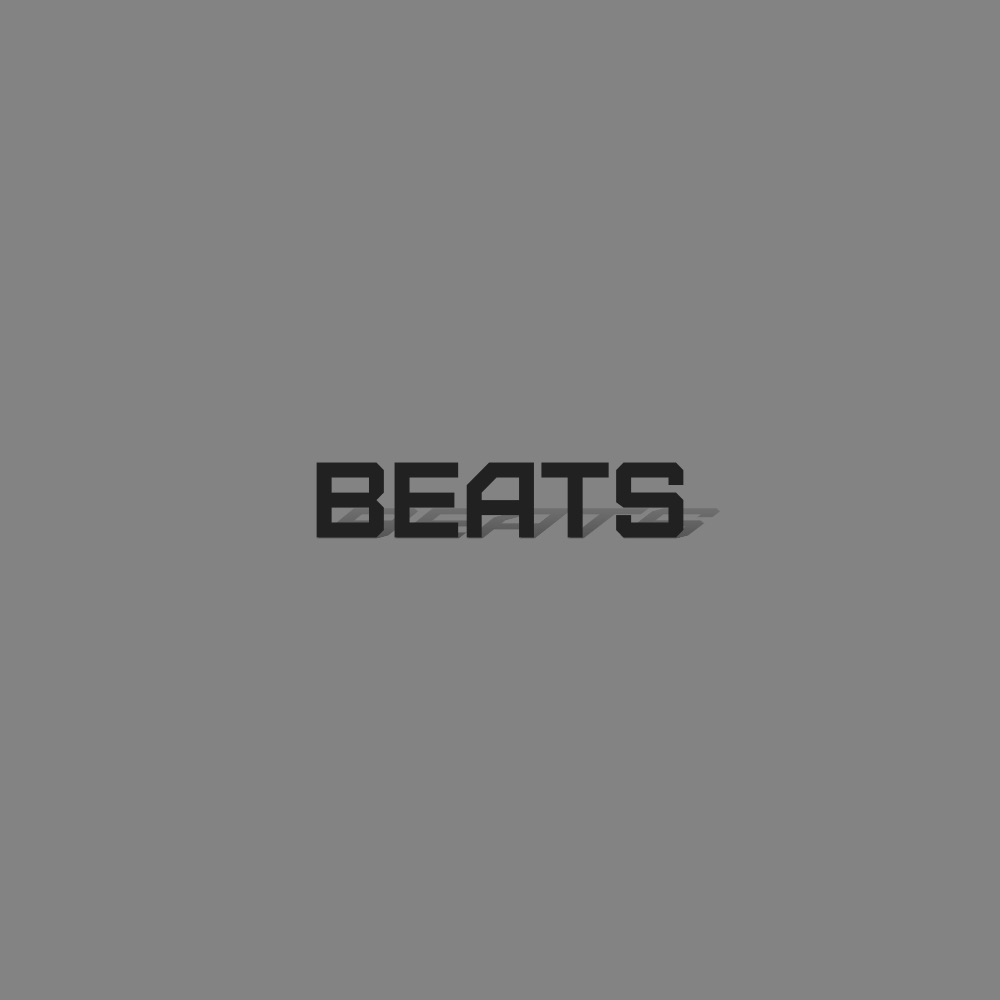
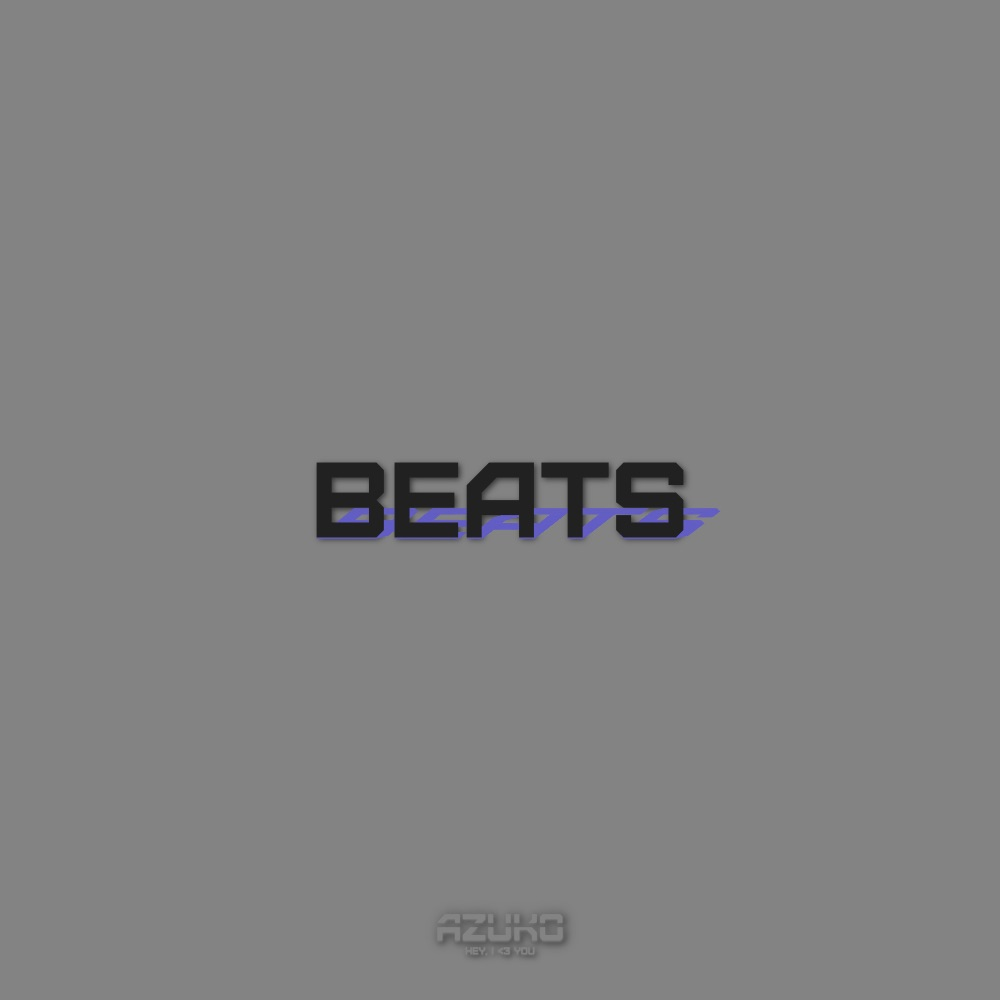
FastApi site v1.0.4 (upd visual)

Changed region(s): [[0.341, 0.465, 0.713, 0.558], [0.434, 0.899, 0.558, 0.961]]

diff --git a/templates/home_content/main_3.html b/templates/home_content/main_3.html
@@ -11,10 +11,11 @@
                         <i class="fa-solid fa-circle-info fa-xl"></i>
                     </div>
                     <hr>
+                    <img class="who_is_azuko_img" src="../../static/images/other/who_is_azuko.jpg" width="100%" alt="">
                     <p class="m-0 who_is_azuko_description">
-                        Hello! My name is Azuko and I'm an artist, producer, sound engineer, and I also wrote this
+                        "Hello! My name is Azuko and I'm an artist, producer, sound engineer, and I also wrote this
                         website.
-                        Here you can listen to my music, buy beats or other products. Cheers!
+                        Here you can listen to my music, buy beats or other products. Cheers!""
                     </p>
                 </div>
             </div>
@@ -31,7 +32,6 @@
                             <a href="/">
                                 <img loading="lazy" src="{{ products[i][0] }}" class="card-img-top img_product" alt="">
                             </a>
-                            <span class="sale">-25%</span>
                             {% else %}
                             <a href="/">
                                 <img loading="lazy" src="{{ products[i][0] }}" class="card-img-top img_product" alt="">
@@ -39,15 +39,14 @@
                             {% endif %}
                             <div class="product_info">
                                 {% if 'mixing_and_mastering' in products[i][0] %}
-                                <p class="m-0 product_name text-uppercase text-center">
-                                    <span class="text-decoration-line-through old_price">{{ products[i][1] }}
-                                        <i class="fa-solid fa-ruble-sign"></i>
-                                    </span>&nbsp;
-                                    <span>{{ products[i][2] }}</span>&nbsp;<i class="fa-solid fa-ruble-sign"></i>
+                                <p class="m-0 text-uppercase text-center d-flex align-items-center justify-content-center">
+                                    <span class="product_name">{{ products[i][2] }}&nbsp;<i class="fa-solid fa-ruble-sign"></i></span>
+                                    &nbsp;&nbsp;<span class="text-decoration-line-through old_price">{{ products[i][1] }}
+                                    <i class="fa-solid fa-ruble-sign"></i></span>
                                 </p>
                                 {% else %}
-                                <p class="m-0 product_name text-uppercase text-center">{{ products[i][1] }}&nbsp;<i
-                                        class="fa-solid fa-ruble-sign"></i></p>
+                                <p class="m-0 product_name text-uppercase text-center">{{ products[i][1] }}
+                                <i class="fa-solid fa-ruble-sign"></i></p>
                                 {% endif %}
                             </div>
                         </div>

diff --git a/templates/index.html b/templates/index.html
@@ -4,14 +4,15 @@
 <head>
     <meta charset="UTF-8">
     <meta name="viewport" content="width=device-width, initial-scale=1.0">
-    <title>Document</title>
+    <title>Azuko</title>
     <link rel="stylesheet" href="{{ url_for('static', path='/node_modules/bootstrap/dist/css/bootstrap.min.css') }}">
     <link rel="stylesheet" href="{{ url_for('static', path='/css/style.css') }}">
     <link rel="stylesheet" href="{{ url_for('static', path='/css/preloader.css') }}">
-    <link rel="stylesheet" href="{{ url_for('static', path='/css/rgb_deep.css') }}">
     <link rel="stylesheet" href="{{ url_for('static', path='/css/rgb.css') }}">
     <link rel="stylesheet" href="{{ url_for('static', path='/css/rgba.css') }}">
+    <link rel="stylesheet" href="{{ url_for('static', path='/css/rgb_deep.css') }}">
     <link rel="stylesheet" href="{{ url_for('static', path='/css/shadows.css') }}">
+    <link rel="shortcut icon" href="{{ url_for('static', path='favicon_azuko.ico') }}" type="image/x-icon">
 </head>
 
 <body>
@@ -20,7 +21,7 @@
     
     {% include 'header.html' %}
 
-    {% block home %}    
+    {% block content %}    
     {% endblock %}
 
     <script src="{{ url_for('static', path='/js/main.js') }}"></script>

diff --git a/static/css/style.css b/static/css/style.css
@@ -53,6 +53,7 @@ body {
     font-size: 20vh;
     color: var(--periwinkle-purple-rgb);
     opacity: .85;
+    font-weight: bold;
     letter-spacing: 4vw;
     text-shadow: 1px 1px 20px var(--periwinkle-purple-rgb);
 }
@@ -128,6 +129,12 @@ body {
     padding: 15px;
     border-radius: 10px;
     color: var(--periwinkle-purple-rgb);
+}
+
+.who_is_azuko .who_is_azuko_img {
+    margin-top: 20px;
+    border-radius: 10px;
+    filter: grayscale(.3);
 }
 
 .who_is_azuko_title {
@@ -207,17 +214,5 @@ body {
 .old_price {
     color: var(--dark-gray-rgb);
     text-shadow: var(--dark-gray-shadow);
+    font-size: .5em;
 }
-
-.sale {
-    position: fixed;
-    top: 26vh;
-    right: 6vw;
-    background-color: var(--periwinkle-purple-rgb);
-    color: rgb(37, 37, 37);
-    padding: 0 15px;
-    font-weight: bold;
-    font-size: 1.5em;
-    transform: rotate(45deg);
-}
-

diff --git a/static/css/preloader.css b/static/css/preloader.css
@@ -37,6 +37,7 @@
     border-radius: 50%;
     border: 3px solid transparent;
     border-top-color: var(--periwinkle-purple-rgb);
+    text-shadow: var(--periwinkle-purple-shadow);
     -webkit-animation: spin 2s linear infinite;
     animation: spin 2s linear infinite;
     z-index: 99999;
@@ -52,6 +53,7 @@
     border-radius: 50%;
     border: 3px solid transparent;
     border-top-color: var(--periwinkle-purple-rgb);
+    text-shadow: var(--periwinkle-purple-shadow);
     -webkit-animation: spin 3s linear infinite;
     animation: spin 3s linear infinite;
 }
@@ -66,6 +68,7 @@
     border-radius: 50%;
     border: 3px solid transparent;
     border-top-color: var(--periwinkle-purple-rgb);
+    text-shadow: var(--periwinkle-purple-shadow);
     -webkit-animation: spin 1.5s linear infinite;
     animation: spin 1.5s linear infinite;
 }

diff --git a/templates/home_content/home.html b/templates/home_content/home.html
@@ -1,5 +1,6 @@
 {% extends 'index.html' %}
-{% block home %}
+
+{% block content %}
 
 {% include 'home_content/main_1.html' %}
 

diff --git a/main.py b/main.py
@@ -25,8 +25,7 @@ async def index(request: Request):
     return templates.TemplateResponse('home_content/home.html',
                                       {"request": request,
                                        "last_releases": last_releases,
-                                       "products": products
-                                       })
+                                       "products": products})
 
 
 if __name__ == '__main__':
